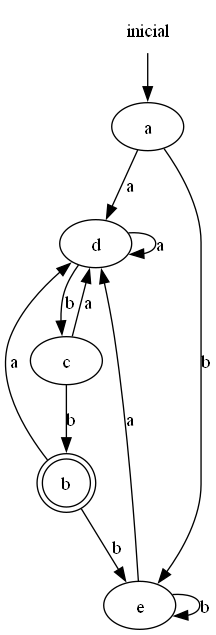
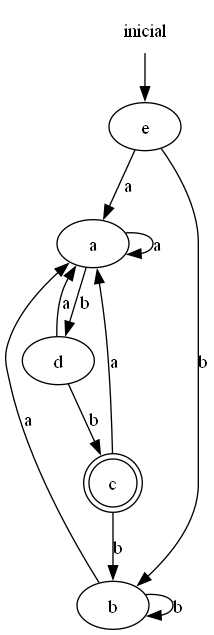
construccion directa lista, graficacion del afd directo

diff --git a/Automatas.py b/Automatas.py
@@ -267,7 +267,6 @@ def recorrer_ast(nodo, valores_ast=None):
 
     return valores_ast
 
-
 def direct_afd(root,alfabeto):
 
     #eliminar del lfabeto la cadena vacia 
@@ -314,19 +313,13 @@ def direct_afd(root,alfabeto):
             # Establecer la transición desde T con el símbolo 'symbol' a U
             afd.agregar_transicion(tuple(sorted(L)), symbol, tuple(sorted(U_labels)))
 
+            for nodo in U:
+                if nodo.valor == '#':
+                    afd.agregar_estado_aceptacion(U_labels)
+           
+
     # Establecer los estados de aceptación
-    for estado in afd.estados:
-        for nodo in estado:
-            if nodo in root.follows:
-                afd.agregar_estado_aceptacion(estado)
-                break
     return afd
-
-
-
-
-
-
 
 def simulacion_afn(string, afn):   
     actual = set()
@@ -341,7 +334,6 @@ def simulacion_afn(string, afn):
         siguiente = set()
     return (afn.accept in actual)
 
-
 def simulacion_afd(afd, w):
     estado_labels = label_estados(afd.estados)
     actual = afd.inicial
@@ -350,7 +342,6 @@ def simulacion_afd(afd, w):
         actual = afd.transitions[(actual, char)]
     
     return actual in afd.accept
-
 
 def simulacion_afd_minimizado(afd_minimizado, w):
     actual = afd_minimizado.inicial
@@ -378,3 +369,29 @@ def imprimir_afd(afd):
     print("\nEstados de aceptación:")
     for estado in afd.accept:
         print(estado)
+
+def graficar_direct_afd(afd):
+    dot = graphviz.Digraph(format = 'png')
+
+    # Agregar nodos
+    for estado in afd.estados:
+        if estado in afd.accept:
+            dot.node(str(estado), shape='doublecircle')
+        elif estado == afd.inicial:
+            dot.node(str(estado), shape='circle', style='bold')
+        else:
+            dot.node(str(estado), shape='circle')
+
+    # Agregar transiciones
+    for origen, transiciones in afd.transitions.items():
+        for simbolo, destino in transiciones.items():
+            dot.edge(str(origen), str(destino), label=str(simbolo))
+
+    # Añadir flecha indicando cual es el estado inicial 
+    dot.node('inicial', shape='none')
+    dot.edge('inicial', str(afd.inicial), label='inicio')
+    
+    
+    return dot
+
+

diff --git a/Project.py b/Project.py
@@ -92,7 +92,7 @@ CONSTRUCCIÓN DE AUTÓMATA FINITO NO DETERMINISTA, AUTÓMATA FINITO DETERMINISTA
 '''
 
 print('La expresión regular en notación postfix es:', postfix)
-'''
+
 afn = postfix_afn(postfix)
 graficar_afn(afn)
 afd = afn_to_afd(afn, alfabeto)
@@ -101,19 +101,18 @@ graficar_afd(afd).render('afd_graph', view=True)
 afd_min = minimizar_afd(afd)
 graficar_afd(afd_min).render('afd_minimizado_graph', view=True)
 
-lista_nodos = recorrer_ast(ast)
-print(lista_nodos)
-'''
+
+
 afd_directo = direct_afd(ast,alfabeto)
-imprimir_afd(afd_directo)
+
+graficar_direct_afd(afd_directo).render('afd_directo_graph', view=True)
 
 
 '''
 SIMULACIÓN DE AUTÓMATAS
-
+'''
 
 print('el resultado de la simulación del afn  es:',simulacion_afn(cadena, afn))
 print('el resultado de la simulación del afd  es:',simulacion_afd(afd, cadena))
 print('El resultado de la simulación del AFD minimizado es:', simulacion_afd_minimizado(afd_min, cadena))
 
-'''
